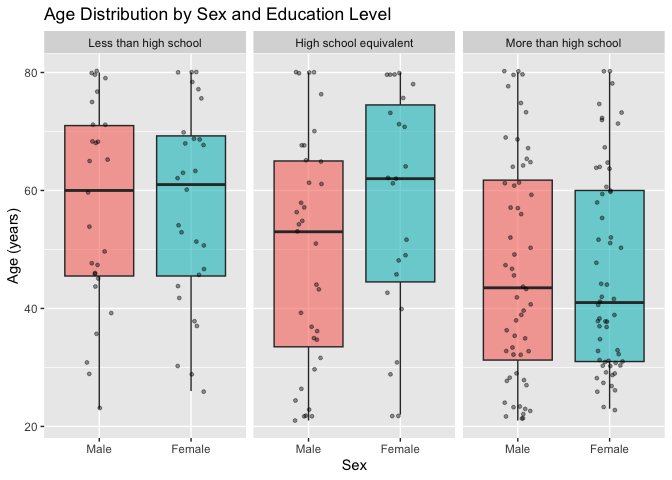
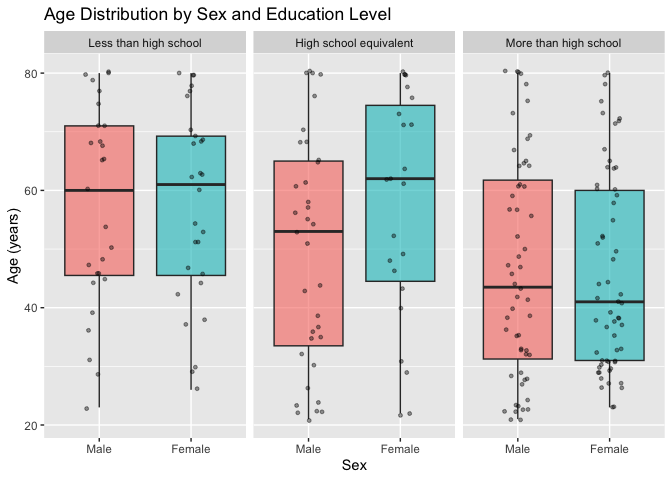
adjustment

diff --git a/p8105_hw3_yp2846.md b/p8105_hw3_yp2846.md
@@ -72,13 +72,14 @@ ny_noaa_clean |>
     ## 2    25   31022
     ## 3    13   23095
 
-The most commonly observed snowfall values are 0 mm, 25 mm, and 13 mm.
-The value 0 mm is by far the most frequent. This is expected because
-most days of the year in New York State do not experience measurable
-snowfall, especially during warmer months. The frequent values of 13 mm
-and 25 mm may reflect snowfall measurements originally recorded in
-inches and converted to millimeters, corresponding approximately to 0.5
-and 1 inch, respectively.
+After excluding missing snowfall observations, the most commonly
+observed snowfall values are 0 mm, 25 mm, and 13 mm. The value 0 mm is
+by far the most frequent. This is expected because most days of the year
+in New York State do not experience measurable snowfall, especially
+during warmer months. The frequent values of 13 mm and 25 mm may reflect
+snowfall measurements originally recorded in inches and converted to
+millimeters, corresponding approximately to 0.5 and 1 inch,
+respectively.
 
 ``` r
 ny_noaa_clean |>
@@ -187,38 +188,7 @@ nhanes_accel = read_csv(
   show_col_types = FALSE
 )|>
   janitor::clean_names()
-
-head(nhanes_covar,5)
 ```
-
-    ## # A tibble: 5 × 5
-    ##    seqn   sex   age   bmi education
-    ##   <dbl> <dbl> <dbl> <dbl>     <dbl>
-    ## 1 62161     1    22  23.3         2
-    ## 2 62164     2    44  23.2         3
-    ## 3 62169     1    21  20.1         2
-    ## 4 62174     1    80  33.9         3
-    ## 5 62177     1    51  20.1         2
-
-``` r
-head(nhanes_accel,5)
-```
-
-    ## # A tibble: 5 × 1,441
-    ##    seqn  min1  min2  min3  min4  min5  min6  min7  min8   min9 min10 min11
-    ##   <dbl> <dbl> <dbl> <dbl> <dbl> <dbl> <dbl> <dbl> <dbl>  <dbl> <dbl> <dbl>
-    ## 1 62161  1.11  3.12  1.47 0.938  1.60 0.145 2.10  0.509  1.63   1.20 0.947
-    ## 2 62164  1.92  1.67  2.38 0.935  2.59 5.22  2.39  4.90   1.97   3.13 2.77 
-    ## 3 62169  5.85  5.18  4.76 6.48   6.85 7.24  6.12  7.48   5.47   6.49 5.14 
-    ## 4 62174  5.42  3.48  3.72 3.81   6.85 4.45  0.561 1.61   0.698  2.72 4.85 
-    ## 5 62177  6.14  8.06  9.99 6.60   4.57 2.78  7.10  7.25  10.1    7.49 2.72 
-    ## # ℹ 1,429 more variables: min12 <dbl>, min13 <dbl>, min14 <dbl>, min15 <dbl>,
-    ## #   min16 <dbl>, min17 <dbl>, min18 <dbl>, min19 <dbl>, min20 <dbl>,
-    ## #   min21 <dbl>, min22 <dbl>, min23 <dbl>, min24 <dbl>, min25 <dbl>,
-    ## #   min26 <dbl>, min27 <dbl>, min28 <dbl>, min29 <dbl>, min30 <dbl>,
-    ## #   min31 <dbl>, min32 <dbl>, min33 <dbl>, min34 <dbl>, min35 <dbl>,
-    ## #   min36 <dbl>, min37 <dbl>, min38 <dbl>, min39 <dbl>, min40 <dbl>,
-    ## #   min41 <dbl>, min42 <dbl>, min43 <dbl>, min44 <dbl>, min45 <dbl>, …
 
 ``` r
 nhanes_covar = nhanes_covar |>
@@ -529,13 +499,13 @@ knitr::kable(
 Number of Rides by Year, Month, and Membership
 
 Members accounted for the majority of sampled rides in all four
-year-month combinations. July had more rides than January in both 2020
-and 2024, suggesting a seasonal pattern in bike usage. The number of
-sampled rides was also higher in 2024 than in 2020 for both months, with
-July 2024 having the highest count (47,156 rides). Casual ridership
-increased substantially from January to July in both years, suggesting
-that casual riders may be more sensitive to seasonal changes than
-members.
+year-month combinations. The sampled ride counts were higher in July
+than in January in both 2020 and 2024, and higher in 2024 than in 2020
+for both months. July 2024 had the highest count, with 47,156 rides. The
+number of sampled casual rides also increased substantially from January
+to July in both years. These patterns describe the provided samples and
+should not necessarily be interpreted as changes in overall Citi Bike
+ridership.
 
 ``` r
 top5_stations = citibike |>
@@ -638,7 +608,8 @@ citibike_2024 |>
     title = "Ride Duration by Month, Membership, and Bike Type (2024)",
     x = "Membership Status",
     y = "Ride Duration (minutes)",
-    fill = "Bike Type"
+    fill = "Bike Type",
+    caption = "Display limited to 0–60 minutes."
   )
 ```
 
